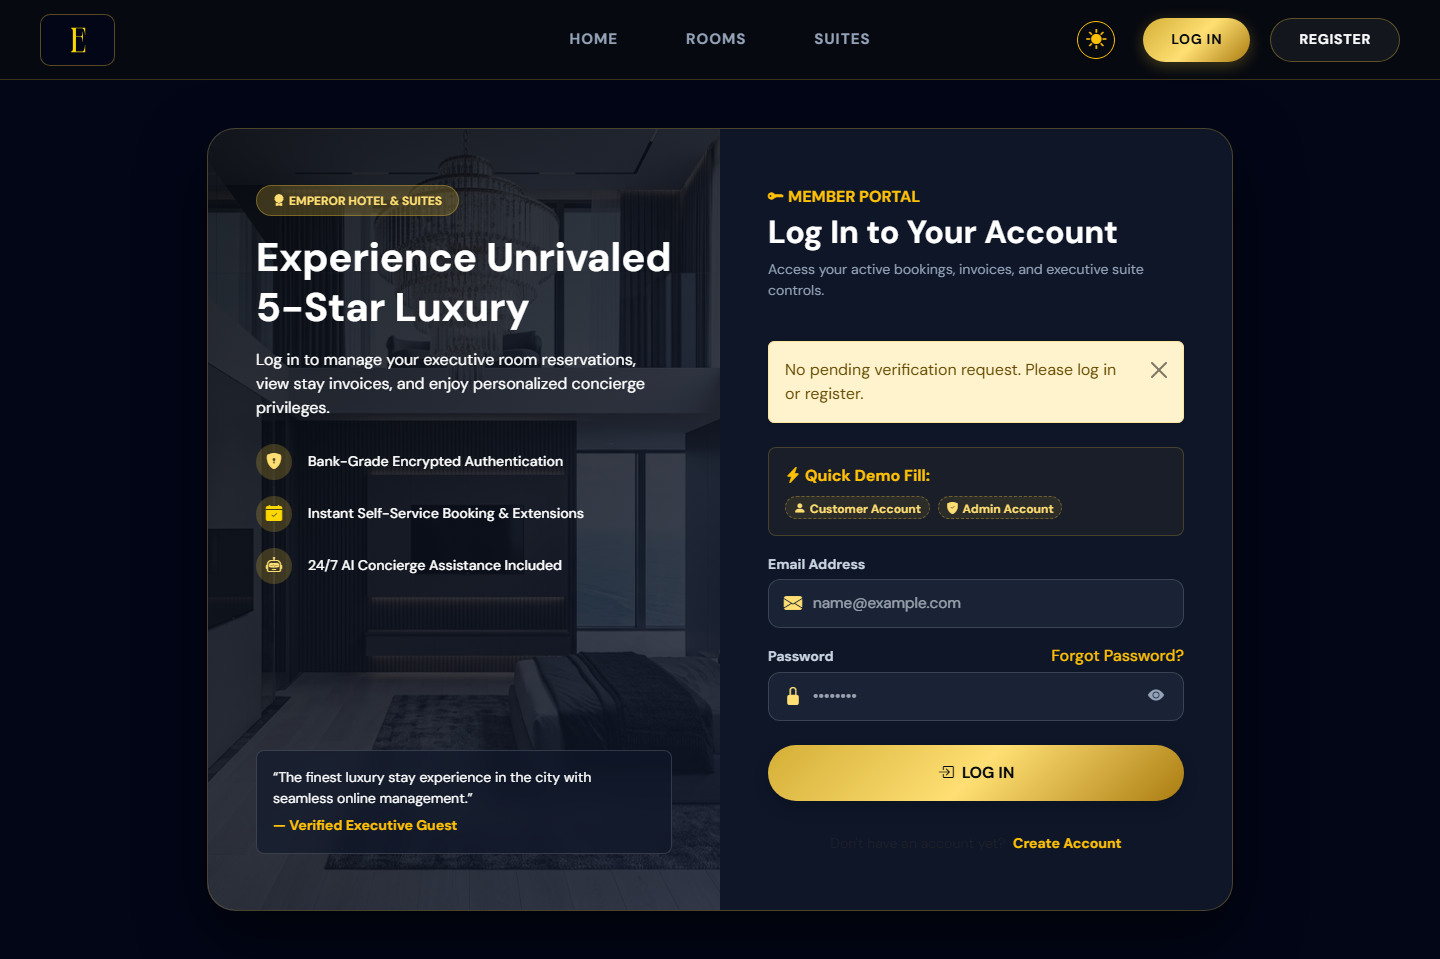
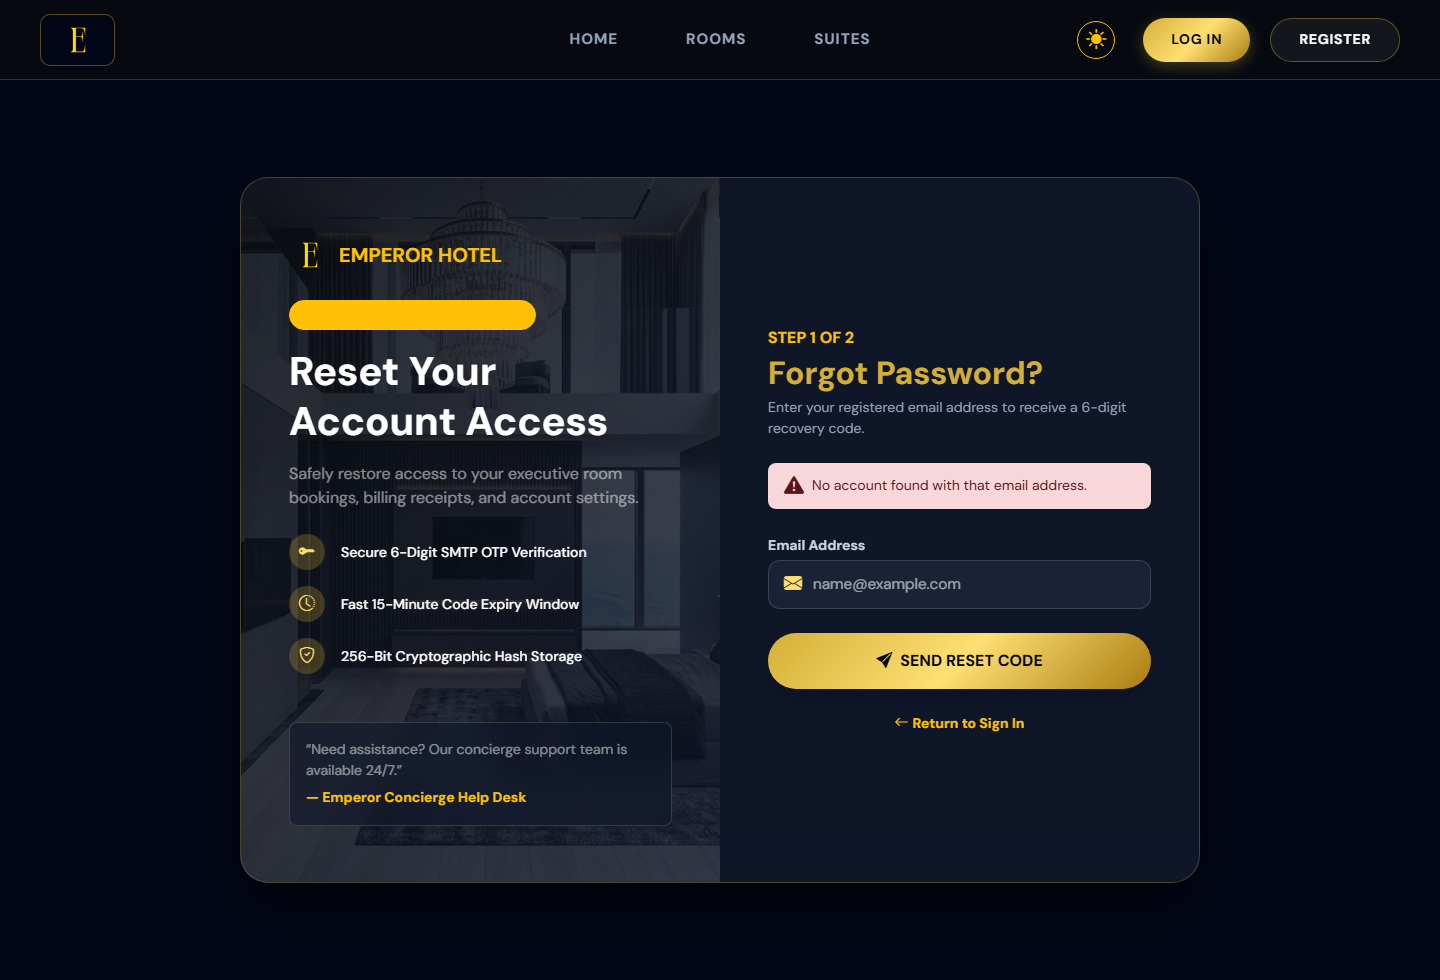
feat: add top primary navigation header to forgot-password.php and verify-otp.php

diff --git a/public/auth/verify-otp.php b/public/auth/verify-otp.php
@@ -63,40 +63,122 @@ if ($_SERVER['REQUEST_METHOD'] === 'POST') {
     }
 }
 
-renderHeader('Verify Email OTP - Emperor Hotel', ['../assets/css/auth/login.css']);
+renderHeader('Verify Email OTP - Emperor Hotel', ['../assets/css/site/home.css']);
 ?>
-<div class="auth-wrapper d-flex align-items-center justify-content-center min-vh-100 py-5 bg-dark">
-    <div class="card bg-dark text-light border-gold-glow rounded-4 p-4 shadow-lg style-auth-card" style="max-width: 440px; width: 100%;">
-        <div class="text-center mb-4">
-            <div class="brand-logo mb-2 fs-1 text-gold"><i class="bi bi-shield-lock-fill"></i></div>
-            <h3 class="font-serif text-gold fw-bold m-0">Two-Factor Security</h3>
-            <p class="text-muted small">Enter the 6-digit SMTP OTP verification code sent to your email.</p>
+
+<!-- Header Navigation Bar -->
+<nav class="home-nav" aria-label="Primary navigation">
+    <div class="home-nav__container">
+        <a class="home-nav__logo" href="../site/home.php" aria-label="Emperor Hotel home">
+            <img src="../assets/images/branding/emperors-hotel-logo.svg" alt="Emperor Hotel logo">
+        </a>
+
+        <div class="home-nav__links">
+            <a class="home-nav__link" href="../site/home.php">HOME</a>
+            <a class="home-nav__link" href="../site/rooms.php">ROOMS</a>
+            <a class="home-nav__link" href="../site/suites.php">SUITES</a>
         </div>
 
-        <?php renderFlashBlock(); ?>
-
-        <?php if ($error): ?>
-            <div class="alert alert-danger py-2 small"><?= e($error) ?></div>
-        <?php endif; ?>
-
-        <form method="POST" action="verify-otp.php">
-            <div class="d-flex justify-content-between gap-2 mb-4">
-                <input type="text" name="d1" maxlength="1" class="form-control form-control-dark text-center fw-bold fs-4 border-gold text-gold" style="width: 50px; height: 55px;" required autofocus>
-                <input type="text" name="d2" maxlength="1" class="form-control form-control-dark text-center fw-bold fs-4 border-gold text-gold" style="width: 50px; height: 55px;" required>
-                <input type="text" name="d3" maxlength="1" class="form-control form-control-dark text-center fw-bold fs-4 border-gold text-gold" style="width: 50px; height: 55px;" required>
-                <input type="text" name="d4" maxlength="1" class="form-control form-control-dark text-center fw-bold fs-4 border-gold text-gold" style="width: 50px; height: 55px;" required>
-                <input type="text" name="d5" maxlength="1" class="form-control form-control-dark text-center fw-bold fs-4 border-gold text-gold" style="width: 50px; height: 55px;" required>
-                <input type="text" name="d6" maxlength="1" class="form-control form-control-dark text-center fw-bold fs-4 border-gold text-gold" style="width: 50px; height: 55px;" required>
-            </div>
-
-            <button type="submit" class="btn btn-gold w-100 rounded-pill py-3 font-serif fw-bold shadow">
-                Verify Code & Continue
-            </button>
-        </form>
-
-        <div class="text-center mt-4">
-            <a href="login.php" class="text-gold text-decoration-none small"><i class="bi bi-arrow-left me-1"></i>Back to Login</a>
+        <div class="home-nav__auth">
+            <button type="button" class="btn btn-sm btn-outline-warning theme-toggle-btn rounded-circle me-2 d-inline-flex align-items-center justify-content-center shadow-sm" style="width: 38px; height: 38px; padding: 0;" onclick="toggleEmperorTheme()" title="Switch to Light Mode" aria-label="Switch to Light Mode"><i class="bi bi-sun-fill fs-5"></i></button>
+            <a class="home-nav__cta home-nav__cta--primary" href="login.php">LOG IN</a>
+            <a class="home-nav__cta home-nav__cta--secondary" href="register.php">REGISTER</a>
         </div>
     </div>
-</div>
-<?php
+</nav>
+
+<main class="auth-wrapper min-vh-100 d-flex align-items-center justify-content-center py-5">
+    <div class="container">
+        <div class="card auth-split-card border-0 rounded-4 overflow-hidden shadow-lg mx-auto" style="max-width: 960px;">
+            <div class="row g-0">
+                <!-- Left Column: Hotel Branding Showcase -->
+                <div class="col-lg-6 auth-hero-col d-flex flex-column justify-content-between text-white">
+                    <div>
+                        <a href="../site/home.php" class="d-inline-flex align-items-center gap-2 text-decoration-none mb-4">
+                            <img src="../assets/images/branding/emperors-hotel-logo.svg" alt="Emperor Hotel logo" style="width: 42px; height: 42px;">
+                            <span class="font-serif fw-bold fs-5 tracking-wider text-warning">EMPEROR HOTEL</span>
+                        </a>
+                        <div>
+                            <span class="badge bg-warning bg-opacity-20 text-warning border border-warning border-opacity-30 rounded-pill px-3 py-2 text-xs text-uppercase font-serif fw-semibold mb-3 d-inline-block">
+                                <i class="bi bi-shield-check me-1"></i>2FA Verification Required
+                            </span>
+                        </div>
+                        <h2 class="display-6 font-serif fw-bold mb-3 text-white" style="line-height: 1.25;">
+                            Security Checkpoint
+                        </h2>
+                        <p class="text-white-50 font-serif lead fs-6 mb-4">
+                            Please enter the 6-digit OTP verification code sent to your registered email address.
+                        </p>
+
+                        <div class="d-flex flex-column gap-3 mb-4">
+                            <div class="d-flex align-items-center gap-3">
+                                <div class="rounded-circle d-flex align-items-center justify-content-center flex-shrink-0" style="width: 36px; height: 36px; background: rgba(212, 175, 55, 0.25); color: #FFDF73;">
+                                    <i class="bi bi-envelope-check-fill"></i>
+                                </div>
+                                <span class="small font-serif fw-medium text-white-90">Instant SMTP Email Delivery</span>
+                            </div>
+                            <div class="d-flex align-items-center gap-3">
+                                <div class="rounded-circle d-flex align-items-center justify-content-center flex-shrink-0" style="width: 36px; height: 36px; background: rgba(212, 175, 55, 0.25); color: #FFDF73;">
+                                    <i class="bi bi-clock-history"></i>
+                                </div>
+                                <span class="small font-serif fw-medium text-white-90">Valid for 15 Minutes</span>
+                            </div>
+                        </div>
+                    </div>
+
+                    <div class="p-3 rounded-3 mt-4" style="background: rgba(15, 23, 42, 0.65); backdrop-filter: blur(10px); border: 1px solid rgba(255, 255, 255, 0.15);">
+                        <p class="small font-serif italic mb-1 text-white-50">&ldquo;Protecting your personal reservation privacy with bank-level encryption.&rdquo;</p>
+                        <small class="text-warning font-serif fw-bold">&mdash; Emperor Security Protocol</small>
+                    </div>
+                </div>
+
+                <!-- Right Column: OTP Code Form -->
+                <div class="col-lg-6 auth-form-col d-flex flex-column justify-content-center">
+                    <div class="mb-4 text-center text-lg-start">
+                        <span class="text-xs text-uppercase tracking-wider text-warning font-serif fw-bold d-block mb-1">
+                            Two-Factor Security
+                        </span>
+                        <h3 class="font-serif fw-bold fs-2 m-0" style="color: var(--gold-primary, #D4AF37);">
+                            Verify Email OTP
+                        </h3>
+                        <p class="text-muted font-serif small m-0 mt-1">
+                            Enter the 6-digit code sent to your inbox to complete your verification.
+                        </p>
+                    </div>
+
+                    <?php renderFlashBlock(); ?>
+
+                    <?php if ($error): ?>
+                        <div class="alert alert-danger border-0 shadow-sm py-2 px-3 small rounded-3 mb-4 d-flex align-items-center gap-2">
+                            <i class="bi bi-exclamation-triangle-fill flex-shrink-0 fs-5"></i>
+                            <div><?= e($error) ?></div>
+                        </div>
+                    <?php endif; ?>
+
+                    <form method="POST" action="verify-otp.php">
+                        <div class="d-flex justify-content-between gap-2 mb-4">
+                            <input type="text" name="d1" maxlength="1" class="form-control text-center font-monospace fw-bold fs-4 text-warning border-warning bg-dark rounded-3" style="height: 58px;" required autofocus>
+                            <input type="text" name="d2" maxlength="1" class="form-control text-center font-monospace fw-bold fs-4 text-warning border-warning bg-dark rounded-3" style="height: 58px;" required>
+                            <input type="text" name="d3" maxlength="1" class="form-control text-center font-monospace fw-bold fs-4 text-warning border-warning bg-dark rounded-3" style="height: 58px;" required>
+                            <input type="text" name="d4" maxlength="1" class="form-control text-center font-monospace fw-bold fs-4 text-warning border-warning bg-dark rounded-3" style="height: 58px;" required>
+                            <input type="text" name="d5" maxlength="1" class="form-control text-center font-monospace fw-bold fs-4 text-warning border-warning bg-dark rounded-3" style="height: 58px;" required>
+                            <input type="text" name="d6" maxlength="1" class="form-control text-center font-monospace fw-bold fs-4 text-warning border-warning bg-dark rounded-3" style="height: 58px;" required>
+                        </div>
+
+                        <button type="submit" class="btn btn-warning w-100 rounded-pill py-3 font-serif fw-bold fs-6 shadow text-uppercase tracking-wider mt-2" style="background: linear-gradient(135deg, #D4AF37 0%, #FFDF73 50%, #AA7C11 100%); color: #070A10; border: none; box-shadow: 0 8px 25px rgba(212, 175, 55, 0.35);">
+                            <i class="bi bi-shield-check me-2"></i>Verify Code &amp; Continue
+                        </button>
+                    </form>
+
+                    <div class="text-center mt-4 font-serif small">
+                        <a href="login.php" class="text-warning font-serif fw-bold text-decoration-none d-inline-flex align-items-center gap-1">
+                            <i class="bi bi-arrow-left"></i> Return to Sign In
+                        </a>
+                    </div>
+                </div>
+            </div>
+        </div>
+    </div>
+</main>
+</body>
+</html>

diff --git a/public/auth/forgot-password.php b/public/auth/forgot-password.php
@@ -83,8 +83,30 @@ if ($_SERVER['REQUEST_METHOD'] === 'POST') {
     }
 }
 
-renderHeader('Reset Password - Emperor Hotel & Suites', ['../assets/css/auth/login.css']);
+renderHeader('Reset Password - Emperor Hotel & Suites', ['../assets/css/site/home.css']);
 ?>
+
+<!-- Header Navigation Bar -->
+<nav class="home-nav" aria-label="Primary navigation">
+    <div class="home-nav__container">
+        <a class="home-nav__logo" href="../site/home.php" aria-label="Emperor Hotel home">
+            <img src="../assets/images/branding/emperors-hotel-logo.svg" alt="Emperor Hotel logo">
+        </a>
+
+        <div class="home-nav__links">
+            <a class="home-nav__link" href="../site/home.php">HOME</a>
+            <a class="home-nav__link" href="../site/rooms.php">ROOMS</a>
+            <a class="home-nav__link" href="../site/suites.php">SUITES</a>
+        </div>
+
+        <div class="home-nav__auth">
+            <button type="button" class="btn btn-sm btn-outline-warning theme-toggle-btn rounded-circle me-2 d-inline-flex align-items-center justify-content-center shadow-sm" style="width: 38px; height: 38px; padding: 0;" onclick="toggleEmperorTheme()" title="Switch to Light Mode" aria-label="Switch to Light Mode"><i class="bi bi-sun-fill fs-5"></i></button>
+            <a class="home-nav__cta home-nav__cta--primary" href="login.php">LOG IN</a>
+            <a class="home-nav__cta home-nav__cta--secondary" href="register.php">REGISTER</a>
+        </div>
+    </div>
+</nav>
+
 <main class="auth-wrapper min-vh-100 d-flex align-items-center justify-content-center py-5">
     <div class="container">
         <div class="card auth-split-card border-0 rounded-4 overflow-hidden shadow-lg mx-auto" style="max-width: 960px;">